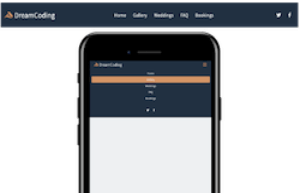
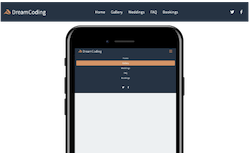
css: home

diff --git a/style.css b/style.css
@@ -3,8 +3,8 @@
   --color-white: #ffffff;
   --color-light-white: #eeeeee;
   --color-dark-white: #bdbdbd;
-  --color-pink: #fe918d;
-  --color-dark-pink: #ff6863;
+  --color-light-pupple: #b39ddb;
+  --color-dark-pupple: #7e57c2;
   --color-dark-grey: #4d4d4d;
   --color-grey: #616161;
   --color-light-grey: #7c7979;
@@ -49,6 +49,17 @@ ul {
   padding-left: 0;
 }
 
+li {
+  list-style: none;
+}
+
+button {
+  background-color: transparent;
+  cursor: pointer;
+  border: none;
+  outline: none;
+}
+
 /* Typography */
 
 h1 {
@@ -82,7 +93,7 @@ p {
 #navbar {
   display: flex;
   justify-content: space-between;
-  background-color: var(--color-pink);
+  background-color: var(--color-light-pupple);
   align-items: center;
   color: var(--color-white);
   padding: 16px;
@@ -110,4 +121,33 @@ p {
 
 .navbar__menu__item:hover {
   background-color: var(--color-dark-pink);
+}
+
+/* Home */
+#home {
+  background: url(imgs/home-background.png) center/cover no-repeat;
+  padding: 40px;
+  text-align: center;
+}
+
+.home__avatar {
+  width: 250px;
+  height: 250px;
+  border-radius: 50%;
+  border: 2px solid var(--color-light-white);
+}
+
+.home__title,
+.home__description {
+  color: var(--color-white);
+}
+
+.home__contact {
+  color: var(--color-white);
+  font-size: var(--font-regular);
+  font-weight: var(--weight-bold);
+  margin: 24px;
+  padding: 8px 12px;
+  border: 2px solid var(--color-white);
+  border-radius: 4px;
 }
